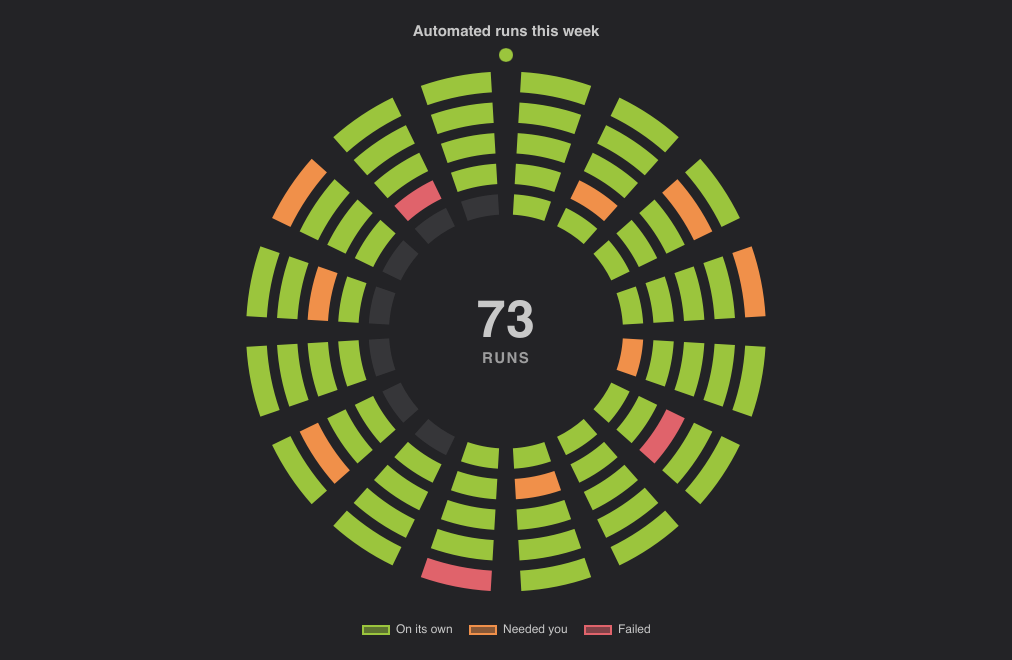
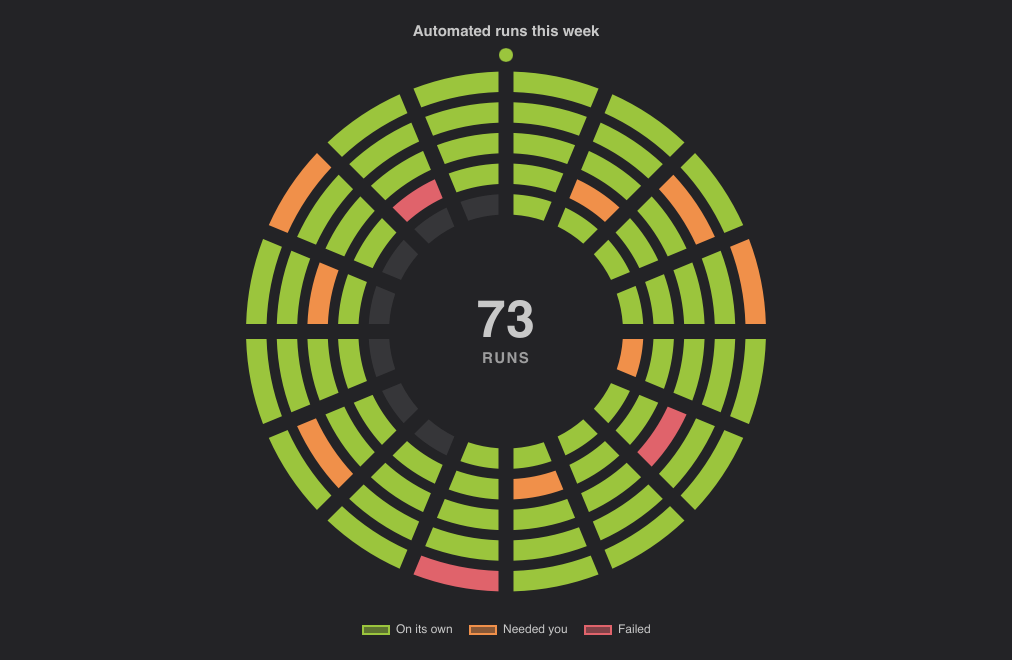
Release 0.4.1: SegmentedRingChart gaps between segments as wide in every ring, with parallel sides, and at least 2px, so they look even on screens of 1 pixel per point

diff --git a/docs/index.html b/docs/index.html
@@ -373,7 +373,7 @@
 <figure class="shot"><video class="tour when-light" width="1280" height="820" muted loop playsinline preload="none" poster="screenshots/tour.webp" aria-label="The gallery: hovering the bars of a bar chart shows tooltips, Randomize moves the bars to new values, and the radial bar and Gantt charts open from the sample list"><source src="screenshots/tour.mp4" type="video/mp4"></video><video class="tour when-dark" width="1280" height="820" muted loop playsinline preload="none" poster="screenshots/tour-dark.webp" aria-label="The gallery: hovering the bars of a bar chart shows tooltips, Randomize moves the bars to new values, and the radial bar and Gantt charts open from the sample list"><source src="screenshots/tour-dark.mp4" type="video/mp4"></video>
   <figcaption>The gallery app, to try the library out: every chart type, with live data, themes and dark mode.
   <a href="demo/">Try it in your browser</a>, install it with <code>cargo install slintplot-gallery</code>, or download it ready-built from the
-  <a href="https://github.com/trondegil/slintplot/releases/tag/apps-v0.4.0">releases page</a>. See <a href="#examples">Example apps</a>.</figcaption></figure>
+  <a href="https://github.com/trondegil/slintplot/releases/tag/apps-v0.4.1">releases page</a>. See <a href="#examples">Example apps</a>.</figcaption></figure>
 
 <h2 id="getting-started">Getting started</h2>
 <h3>1. Add the dependencies</h3>
@@ -946,7 +946,7 @@ SegmentedRingChart {
   <tr><td><code>clockwise</code></td><td><code>bool</code></td><td><code>true</code></td><td>Which way the columns go</td></tr>
   <tr><td><code>cutout</code></td><td><code>float</code></td><td><code>0.45</code></td><td>The empty middle, as a share of the radius</td></tr>
   <tr><td><code>ring-gap</code></td><td><code>float</code></td><td><code>0.5</code></td><td>The gap between the rings, as a share of their width</td></tr>
-  <tr><td><code>segment-gap</code></td><td><code>float</code></td><td><code>0.3</code></td><td>The gap between the segments, as a share of the angle each takes</td></tr>
+  <tr><td><code>segment-gap</code></td><td><code>float</code></td><td><code>0.3</code></td><td>The gap between the segments, as a share of a segment of the inner ring. It is at least 2px, and as wide in every ring, so the gaps form straight spokes</td></tr>
   <tr><td><code>track-color</code></td><td><code>color</code></td><td>unset</td><td>The empty segments; unset for a faint gray</td></tr>
   <tr><td><code>show-labels</code></td><td><code>bool</code></td><td><code>true</code></td><td>The column labels round the outside</td></tr>
   <tr><td><code>show-center</code></td><td><code>bool</code></td><td><code>true</code></td><td>The text in the middle</td></tr>
@@ -2586,7 +2586,7 @@ a hang or a runaway allocation. Its soak test repeats the same rounds for a whil
 cargo run --release -p slintplot-fuzz -- soak 60    # an hour of the same rounds</code></pre>
 <p>The gallery also runs in the browser, built with WebAssembly: <a href="demo/">slintplot.dev/demo</a>.</p>
 <p>Ready-built apps for macOS, Windows and Linux are on the
-<a href="https://github.com/trondegil/slintplot/releases/tag/apps-v0.4.0">releases page</a>.
+<a href="https://github.com/trondegil/slintplot/releases/tag/apps-v0.4.1">releases page</a>.
 Each download includes the licenses of the open-source crates it is built from.</p>
 <p><a href="https://slint.dev"><img src="assets/MadeWithSlint-logo-whitebg.webp" alt="Made with Slint" width="212" height="97"></a></p>
 <figure class="shot"><img width="1280" height="820" class="when-light" src="screenshots/gallery.webp" alt="The gallery sample browser" loading="lazy"><img width="1280" height="820" class="when-dark" src="screenshots/gallery-dark.webp" alt="The gallery sample browser" loading="lazy"></figure>

diff --git a/crates/slintplot/src/segmented.rs b/crates/slintplot/src/segmented.rs
@@ -9,7 +9,7 @@
 use std::f32::consts::TAU;
 
 use crate::layout::Rgba;
-use crate::pie::{point, slice_path};
+use crate::pie::point;
 
 /// The most rings and segments per ring, so that a huge matrix can't make
 /// the chart unusably slow.
@@ -28,7 +28,8 @@ pub struct SegmentedRequest<'a> {
     pub clockwise: bool,
     /// The empty middle, as a share of the radius; the gap between rings, as
     /// a share of their width; and the gap between segments, as a share of
-    /// the angle each takes.
+    /// a segment of the inner ring. The gaps between segments are as wide
+    /// in every ring, with parallel sides.
     pub cutout: f32,
     pub ring_gap: f32,
     pub segment_gap: f32,
@@ -50,7 +51,8 @@ pub struct Segmented {
     pub start: f32,
     /// 1 clockwise, -1 counterclockwise.
     pub direction: f32,
-    /// The gap between segments, as a share of the angle each takes.
+    /// The gap between segments, as a share of a segment of the inner
+    /// ring; see [`gap_width`].
     pub segment_gap: f32,
     pub columns: usize,
     /// One (outer, inner) per row, outermost first.
@@ -151,13 +153,92 @@ pub fn layout(req: &SegmentedRequest) -> Segmented {
     }
 }
 
-/// The angles of a column's segments, the smaller first.
+/// The angles a column spans, the smaller first, gap included.
 pub fn column_angles(chart: &Segmented, column: usize) -> (f32, f32) {
     let pitch = TAU / chart.columns.max(1) as f32;
     let a = chart.start + chart.direction * column as f32 * pitch;
     let b = chart.start + chart.direction * (column + 1) as f32 * pitch;
-    let trim = pitch * chart.segment_gap / 2.0;
-    (a.min(b) + trim, a.max(b) - trim)
+    (a.min(b), a.max(b))
+}
+
+/// The width of the gap between segments, in pixels: `segment_gap` of a
+/// segment's length along the middle of the inner ring, and at least 2
+/// pixels so that the gaps don't fade on screens of 1 pixel per point, while
+/// leaving most of each inner segment. Every ring has gaps this wide, so
+/// the gaps line up as straight, even spokes instead of widening outwards.
+pub fn gap_width(chart: &Segmented) -> f32 {
+    let Some(&(outer, inner)) = chart.rings.last() else {
+        return 0.0;
+    };
+    if chart.segment_gap <= 0.0 {
+        return 0.0;
+    }
+    if chart.columns <= 1 {
+        // One segment per ring: a gap where it starts and ends.
+        return (chart.segment_gap * (outer - inner)).max(2.0);
+    }
+    let segment = TAU / chart.columns as f32 * (outer + inner) / 2.0;
+    (chart.segment_gap * segment).max(2.0).min(segment * 0.4)
+}
+
+/// A ring segment from angle `a` to `b`, trimmed by half of `gap` at each
+/// end along both its outer and inner edge, so that the gaps on either side
+/// keep the same width all the way across the ring.
+fn segment_path(
+    out: &mut String,
+    center: (f32, f32),
+    outer: f32,
+    inner: f32,
+    a: f32,
+    b: f32,
+    gap: f32,
+) {
+    use std::fmt::Write;
+    let half = (b - a) / 2.0;
+    // How far each end moves in at a radius; at most nearly to the middle.
+    let trim = |r: f32| {
+        if r <= 0.0 {
+            half
+        } else {
+            (gap / 2.0 / r).min(half * 0.98)
+        }
+    };
+    let (to, ti) = (trim(outer), trim(inner));
+    let (oa, ob) = (a + to, b - to);
+    if ob <= oa {
+        return;
+    }
+    // An SVG arc can't draw more than half a circle in one go.
+    let split = |from: f32, to: f32| -> Vec<f32> {
+        if (to - from).abs() > std::f32::consts::PI {
+            vec![(from + to) / 2.0, to]
+        } else {
+            vec![to]
+        }
+    };
+    if !out.is_empty() {
+        out.push(' ');
+    }
+    let (x, y) = point(center, outer, oa);
+    let _ = write!(out, "M {x:.2} {y:.2}");
+    for angle in split(oa, ob) {
+        let (x, y) = point(center, outer, angle);
+        let _ = write!(out, " A {outer:.2} {outer:.2} 0 0 1 {x:.2} {y:.2}");
+    }
+    let (ia, ib) = (a + ti, b - ti);
+    if inner > 0.0 && ib > ia {
+        let (x, y) = point(center, inner, ib);
+        let _ = write!(out, " L {x:.2} {y:.2}");
+        for angle in split(ib, ia) {
+            let (x, y) = point(center, inner, angle);
+            let _ = write!(out, " A {inner:.2} {inner:.2} 0 0 0 {x:.2} {y:.2}");
+        }
+    } else {
+        // Too small a radius for a gap: the inner edge is a point.
+        let (x, y) = point(center, inner.max(0.0), (a + b) / 2.0);
+        let _ = write!(out, " L {x:.2} {y:.2}");
+    }
+    out.push_str(" Z");
 }
 
 /// The angle of the middle of a column.
@@ -172,10 +253,7 @@ fn push_cell(out: &mut String, chart: &Segmented, row: usize, column: usize) {
     };
     let (a, b) = column_angles(chart, column);
     if outer > inner && b > a && column < chart.columns {
-        if !out.is_empty() {
-            out.push(' ');
-        }
-        out.push_str(&slice_path(chart.center, outer, inner, a, b));
+        segment_path(out, chart.center, outer, inner, a, b, gap_width(chart));
     }
 }
 
@@ -429,6 +507,53 @@ mod tests {
         assert!(column_middle(&chart, 0) < 0.0);
         assert_eq!(cell_path(&chart, 0, 0).matches('M').count(), 1);
         assert!(cell_path(&chart, 9, 0).is_empty());
+    }
+
+    #[test]
+    fn gaps_are_as_wide_in_every_ring() {
+        let m = matrix(6, 24);
+        let chart = layout(&request(&m));
+        let gap = gap_width(&chart);
+        assert!(gap > 1.0);
+        // The numbers of a path: its points, in order.
+        let points = |path: String| -> Vec<(f32, f32)> {
+            let n: Vec<f32> = path.split(' ').filter_map(|w| w.parse().ok()).collect();
+            // M x y, then A rx ry rotation large sweep x y and L x y.
+            let mut out = vec![(n[0], n[1])];
+            let mut i = 2;
+            while i < n.len() {
+                if n.len() - i >= 7 && n[i] == n[i + 1] && n[i + 2] == 0.0 {
+                    out.push((n[i + 5], n[i + 6]));
+                    i += 7;
+                } else {
+                    out.push((n[i], n[i + 1]));
+                    i += 2;
+                }
+            }
+            out
+        };
+        let distance =
+            |p: (f32, f32), q: (f32, f32)| ((p.0 - q.0).powi(2) + (p.1 - q.1).powi(2)).sqrt();
+        for row in [0, 5] {
+            // Column 0 is [start, outer end, inner end, inner start]; the gap
+            // to column 1 is between its ends and column 1's starts.
+            let first = points(cell_path(&chart, row, 0));
+            let second = points(cell_path(&chart, row, 1));
+            let outer = distance(first[1], second[0]);
+            let inner = distance(first[2], second[3]);
+            assert!(
+                (outer - gap).abs() < 0.1,
+                "row {row}: outer gap {outer}, not {gap}"
+            );
+            assert!(
+                (inner - gap).abs() < 0.1,
+                "row {row}: inner gap {inner}, not {gap}"
+            );
+        }
+        // One segment per ring still leaves a gap where it starts.
+        let one = layout(&request(&matrix(1, 1)));
+        assert!(gap_width(&one) > 0.0);
+        assert!(!cell_path(&one, 0, 0).is_empty());
     }
 
     #[test]

diff --git a/README.md b/README.md
@@ -41,7 +41,7 @@ to the mouse.
 *The gallery app shows every chart type with live data, themes and dark mode.
 [Try it in your browser](https://slintplot.dev/demo/), install it with
 `cargo install slintplot-gallery`, or download it ready-built from the
-[releases page](https://github.com/trondegil/slintplot/releases/tag/apps-v0.4.0).*
+[releases page](https://github.com/trondegil/slintplot/releases/tag/apps-v0.4.1).*
 
 ## Getting started
 
@@ -209,7 +209,7 @@ cargo install slintplot-stress    # up to 8 × 1,000,000 points, 60 Hz streaming
 fontconfig and xkbcommon development packages (`libfontconfig-dev` and
 `libxkbcommon-dev` on Debian and Ubuntu). Ready-built apps for macOS, Windows
 and Linux are on the
-[releases page](https://github.com/trondegil/slintplot/releases/tag/apps-v0.4.0),
+[releases page](https://github.com/trondegil/slintplot/releases/tag/apps-v0.4.1),
 and the source is in [`examples/gallery`](https://github.com/trondegil/slintplot/tree/main/examples/gallery) and
 [`examples/stress`](https://github.com/trondegil/slintplot/tree/main/examples/stress). The gallery's `ui/gallery.slint` has a
 working example of every chart.

diff --git a/CHANGELOG.md b/CHANGELOG.md
@@ -1,5 +1,15 @@
 # Changelog
 
+## 0.4.1
+
+### Fixed
+
+- `SegmentedRingChart`: the gaps between segments are as wide in every ring,
+  with parallel sides, and at least 2px. They were a share of each segment's
+  angle, so they widened outwards and, on screens of 1 pixel per point such
+  as most Linux desktops and browsers, looked uneven where they were under 2
+  pixels. `segment-gap` is now a share of a segment of the inner ring.
+
 ## 0.4.0
 
 ### Added
